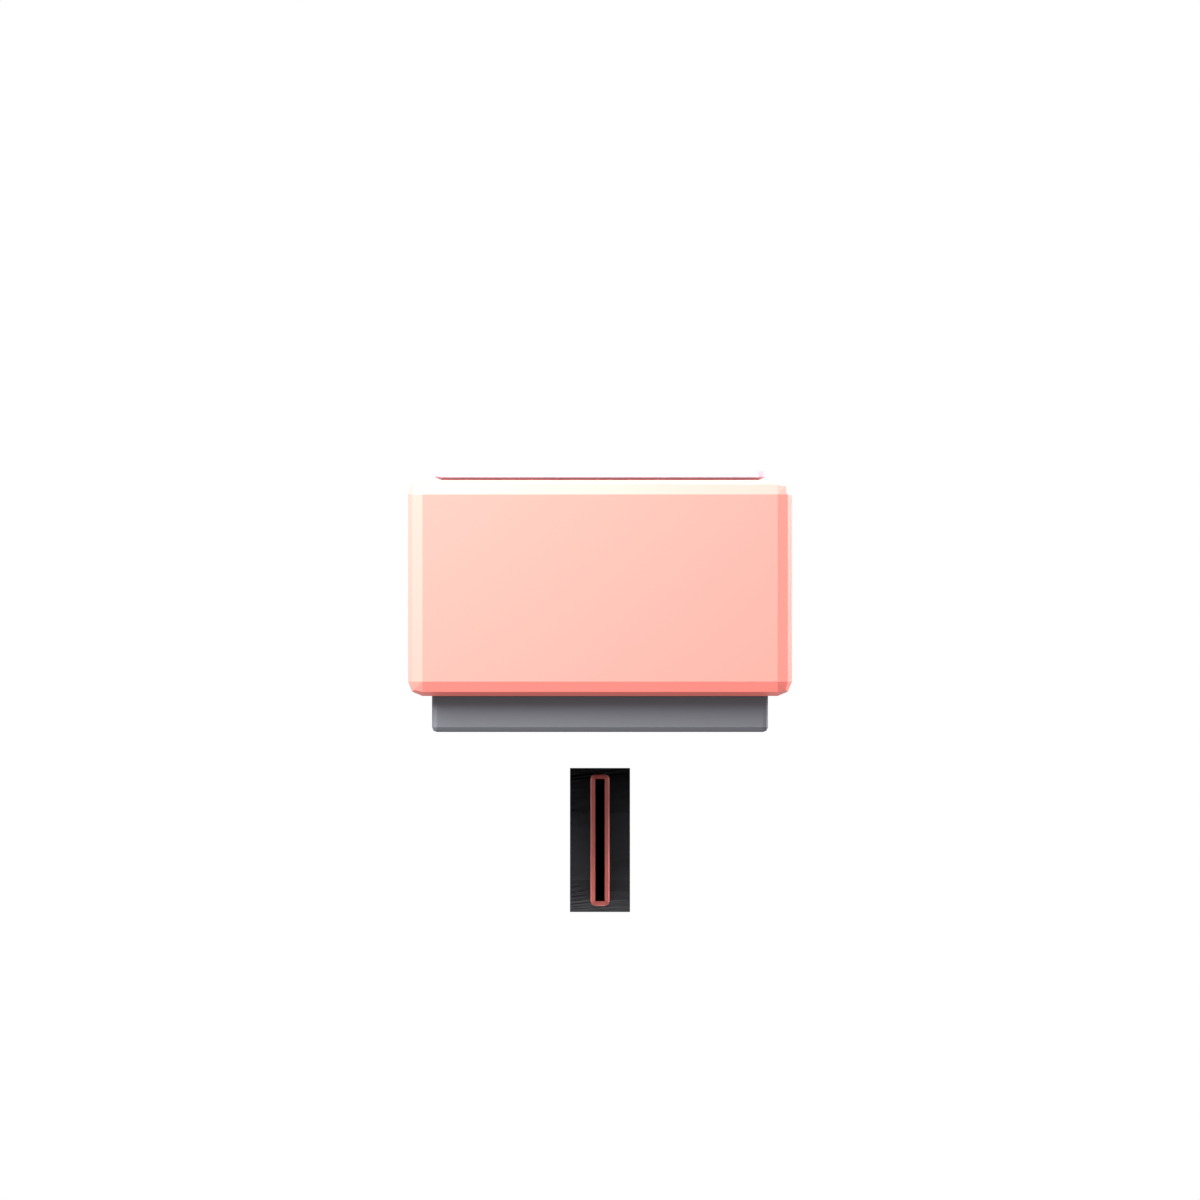
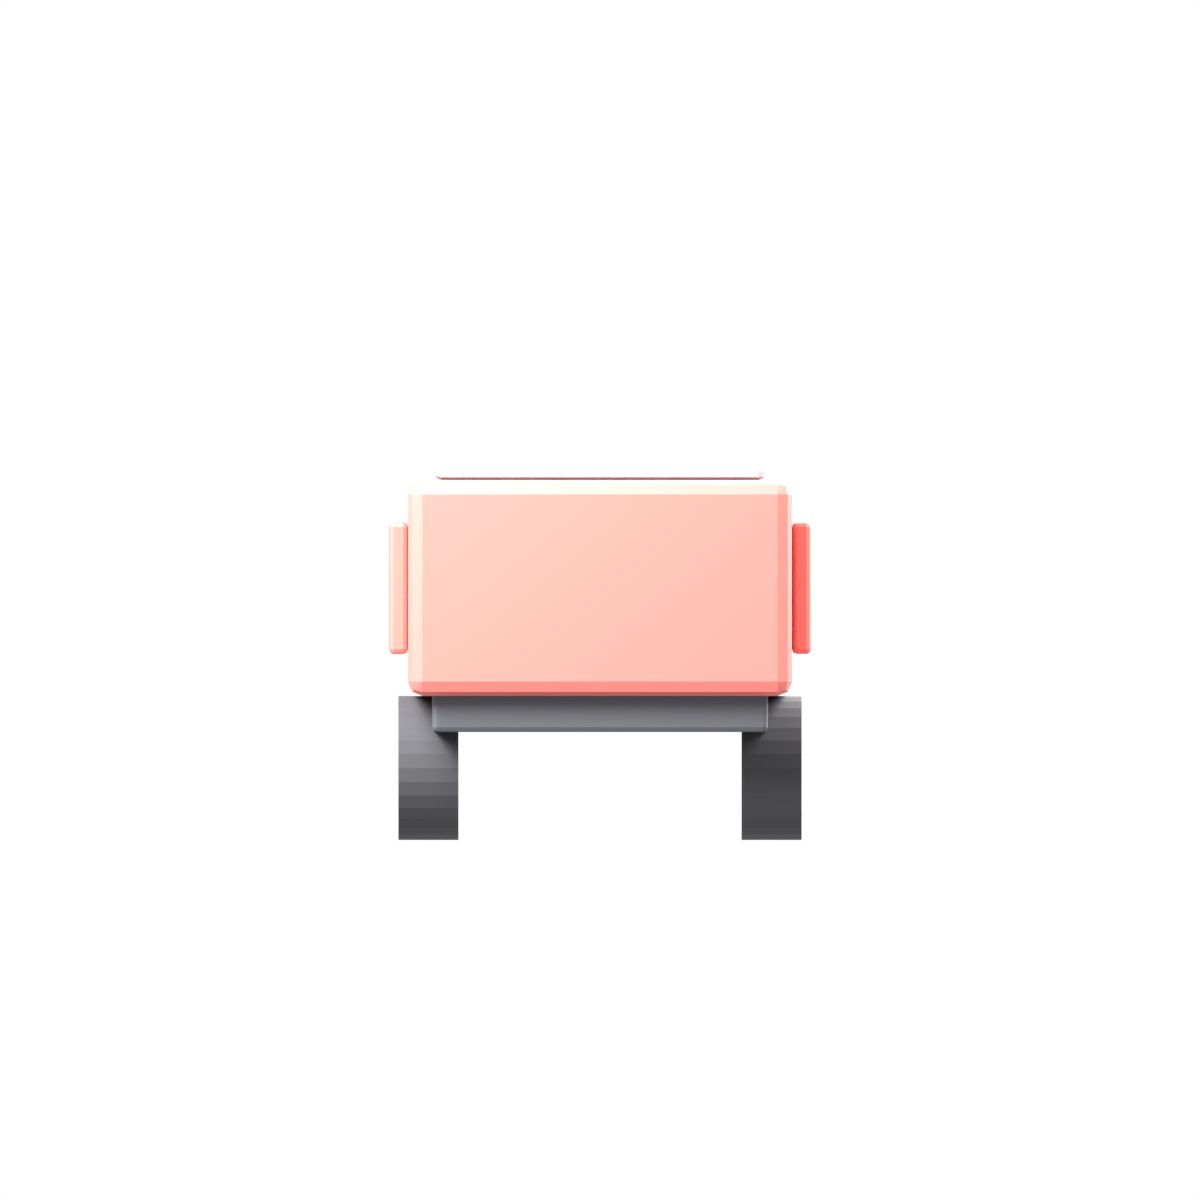
auto sync 2026-11-26 01:51:51

diff --git a/tasks/cua/toy-car/authoring/build_car.py b/tasks/cua/toy-car/authoring/build_car.py
@@ -113,8 +113,8 @@ def build():
         y = fy * (Wd / 2 - WHEEL_W / 2 + 0.004)
         hub = empty(name + "_hub", (x, y, WHEEL_D / 2))
         w = cylinder(name, WHEEL_D / 2, WHEEL_W)
+        w.location = (x, y, WHEEL_D / 2)
         parent_keep(w, hub)
-        w.location = (0, 0, 0)
         parent_keep(hub, body)
         wheels[name] = (w, hub, fx, fy)
         parts[name] = w
@@ -124,7 +124,8 @@ def build():
     for side, sy in (("l", 1), ("r", -1)):
         y = sy * (Wd / 2 + 0.004)
         hinge = empty(f"door_{side}_hinge", (0.06, y, BODY_Z + 0.045))
-        d = box(f"door_{side}", (0, 0, 0), (0.10, 0.008, 0.055), 0.002)
+        d = box(f"door_{side}", (0.06 - 0.05, y, BODY_Z + 0.045),
+                (0.10, 0.008, 0.055), 0.002)
         parent_keep(d, hinge)
         parent_keep(hinge, body)
         doors[side] = (d, hinge)
